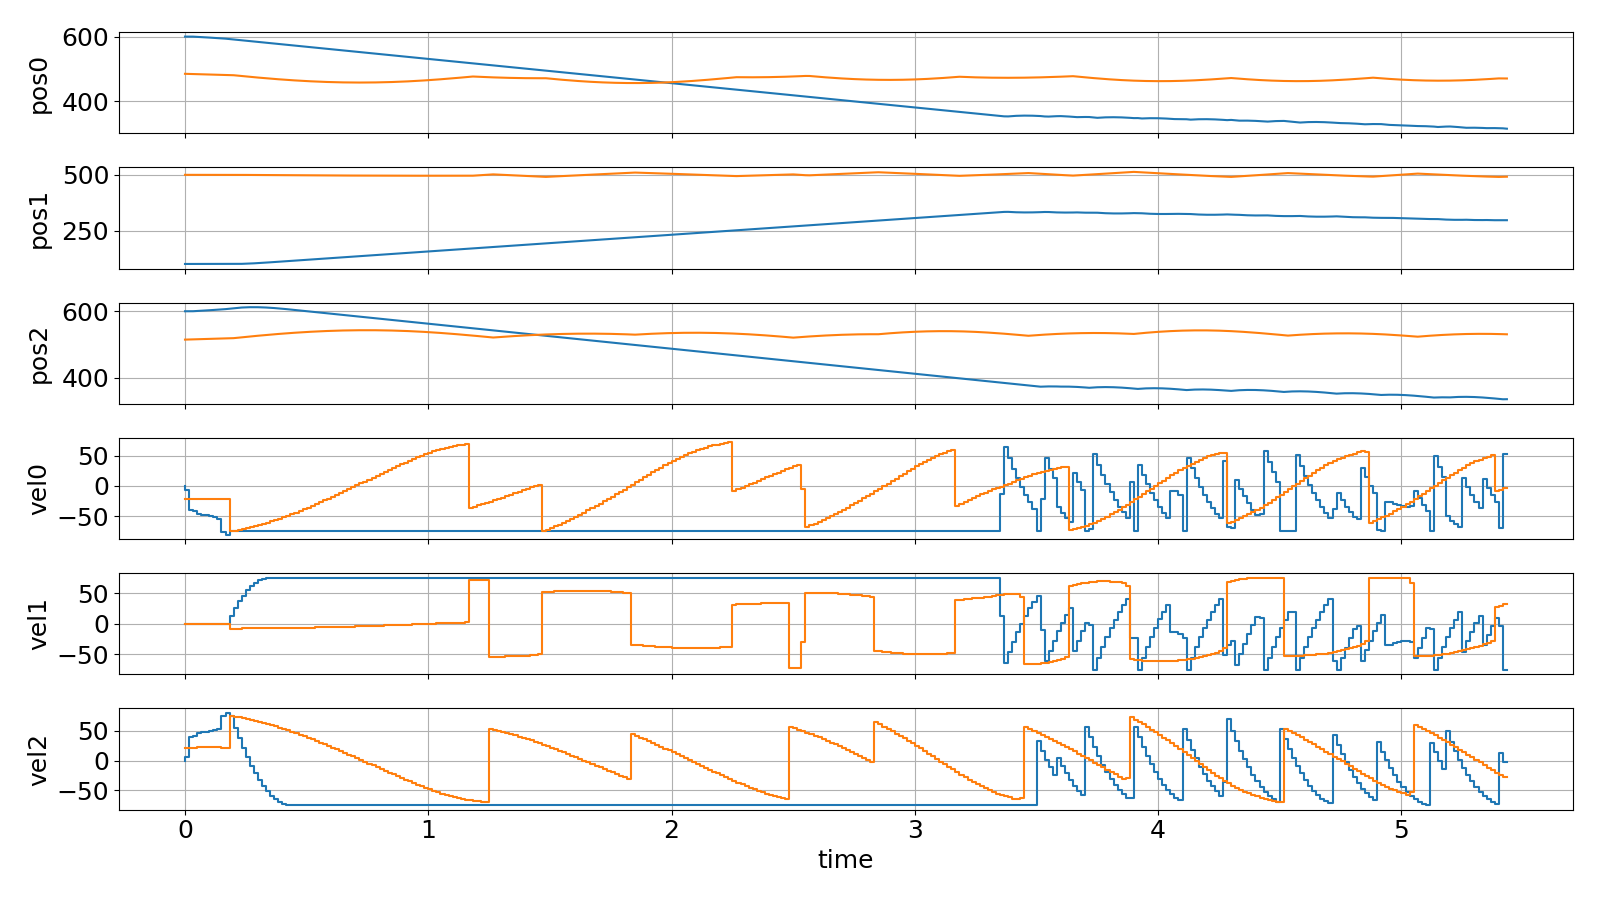
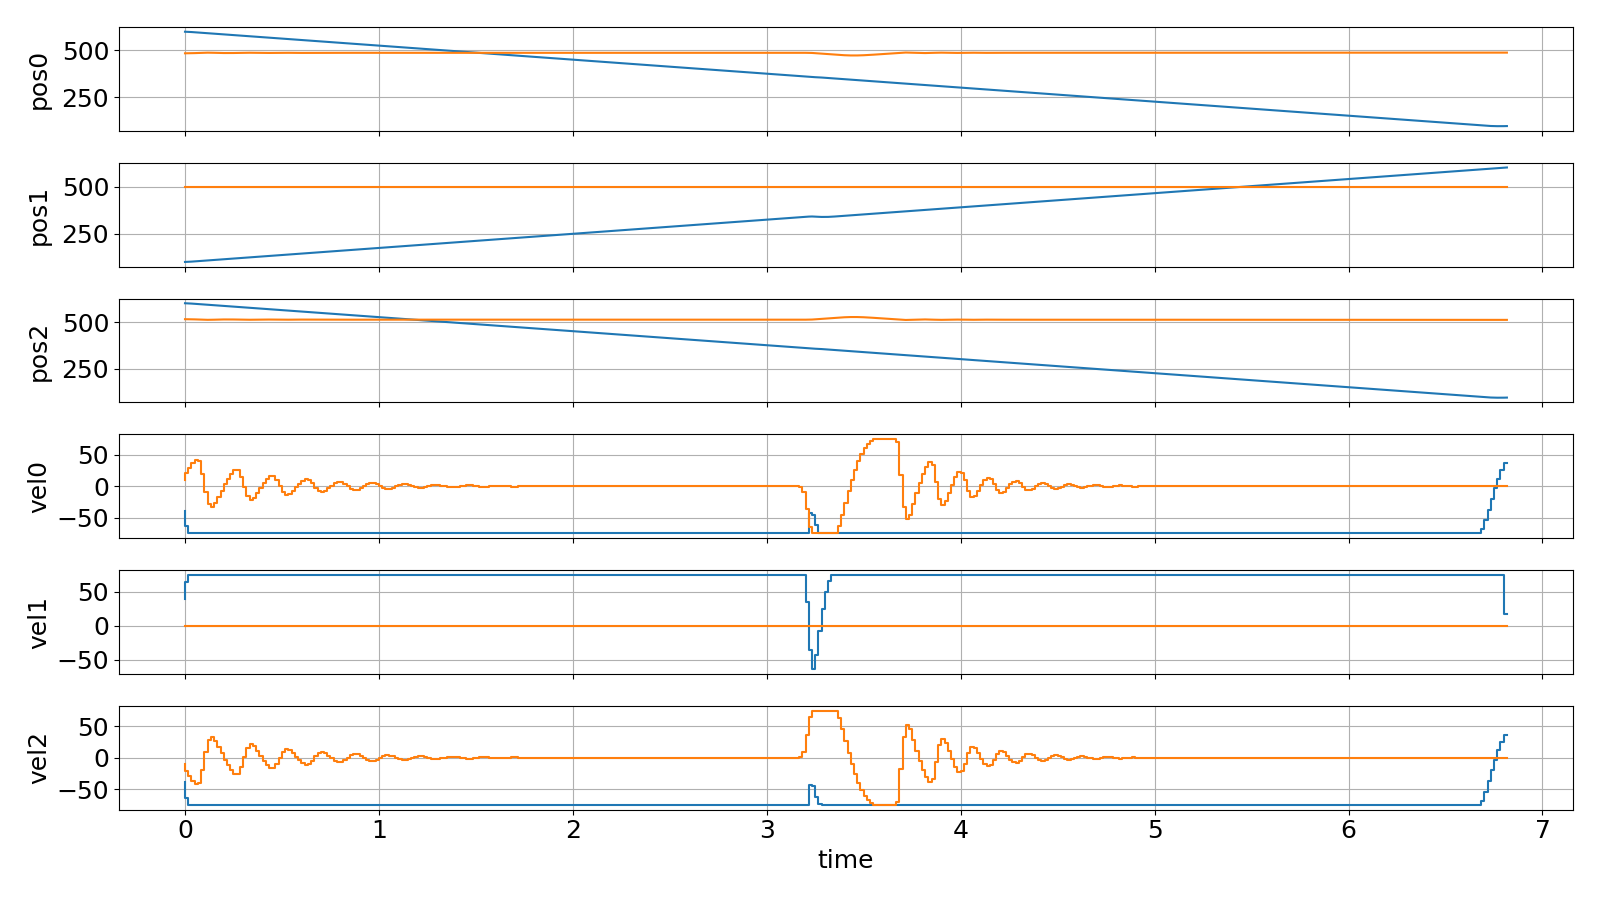
improve collision const function

diff --git a/MPC/model_predictive_control.py b/MPC/model_predictive_control.py
@@ -15,12 +15,19 @@ class ModelPredictiveControl:
             target: np.ndarray,
             radius: np.ndarray,
             max_speed: float,
-            desired_speed: float
+            desired_speed: float,
+            collision_cost_weight: float = 10.,
+            distance_cost_weight: float = 10.
     ):
+        # problem settings
         self.time_step = time_step
         self.visible_agents = visible_agents
         self.target = target
         self.radius = radius
+
+        # cost weights
+        self.coll_cw = collision_cost_weight
+        self.dist_cw = distance_cost_weight
 
         self.model = self.create_model()
         self.controller = self.create_controller(max_speed, desired_speed)
@@ -72,13 +79,14 @@ class ModelPredictiveControl:
         # keep distance to other agents
         lterm = casadi.SX(0)
         for a, b in combinations(list(range(self.visible_agents)), 2):
-            lterm += 10. / casadi.norm_2(m.x[f'pos{a}'] - m.x[f'pos{b}'])
+            rad_sum = self.radius[a] + self.radius[b]
+            lterm += self.coll_cw / (1 + casadi.exp(casadi.norm_2(m.x[f'pos{a}'] - m.x[f'pos{b}']) - rad_sum))
 
         # move over target
         mterm = casadi.SX(0)
         for agent_idx in range(self.visible_agents):
             targ = self.target[agent_idx]
-            mterm += casadi.norm_2(targ - m.x[f'pos{agent_idx}'])
+            mterm += self.dist_cw * casadi.norm_2(targ - m.x[f'pos{agent_idx}'])
 
         mpc.set_objective(
             lterm=lterm,
@@ -95,20 +103,20 @@ class ModelPredictiveControl:
                 ub=desired_speed ** 2,
                 soft_constraint=True,
                 maximum_violation=max_speed ** 2,
-                penalty_term_cons=1e-2
+                penalty_term_cons=1e-3
             )
 
         # constraint for collisions
-        for a, b in combinations(list(range(self.visible_agents)), 2):
-            rad_sum = self.radius[a] + self.radius[b]
-            mpc.set_nl_cons(
-                f'collision_avoidance_constraint{a}/{b}',
-                -casadi.sum2((m.x[f'pos{a}'] - m.x[f'pos{b}']) ** 2),
-                ub=-(rad_sum ** 2),
-                soft_constraint=True,
-                maximum_violation=(rad_sum / 2.) ** 2,
-                penalty_term_cons=1e-1
-             )
+        # for a, b in combinations(list(range(self.visible_agents)), 2):
+        #     rad_sum = self.radius[a] + self.radius[b]
+        #     mpc.set_nl_cons(
+        #         f'collision_avoidance_constraint{a}/{b}',
+        #         -casadi.sum2((m.x[f'pos{a}'] - m.x[f'pos{b}']) ** 2),
+        #         ub=-(rad_sum ** 2),
+        #         # soft_constraint=True,
+        #         # maximum_violation=(rad_sum / 2.) ** 2,
+        #         # penalty_term_cons=1e-1
+        #      )
 
         mpc.setup()
         return mpc
@@ -169,4 +177,4 @@ if __name__ == '__main__':
     fig, ax, graphics = do_mpc.graphics.default_plot(mpc_model.controller.data, figsize=(16, 9))
     graphics.plot_results()
     graphics.reset_axes()
-    plt.savefig('small_MPC_plots.png')
+    plt.savefig('data.png')
